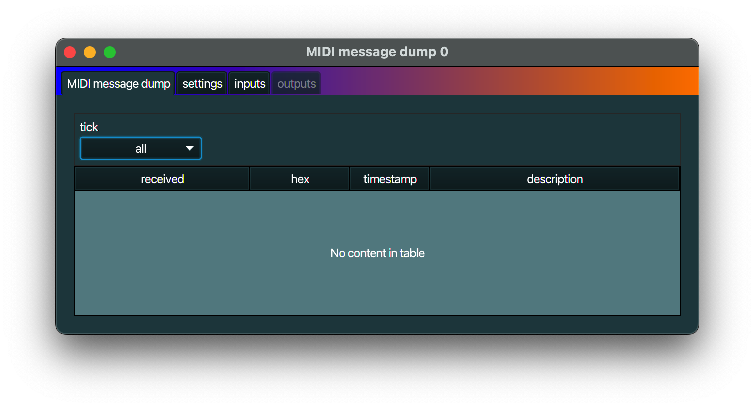
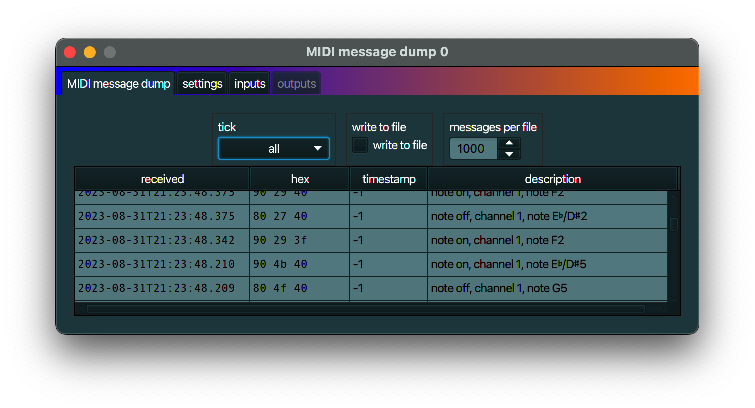
csv output for MIDI message dump Arpeggiator note off fix BooleanUpdater init fix

diff --git a/src/main/java/nl/nlcode/m/engine/MidiMessageDump.java b/src/main/java/nl/nlcode/m/engine/MidiMessageDump.java
@@ -1,20 +1,38 @@
 package nl.nlcode.m.engine;
 
+import java.io.File;
+import java.io.FileWriter;
+import java.io.IOException;
+import java.io.PrintWriter;
+import java.lang.invoke.MethodHandles;
+import java.nio.charset.Charset;
+import java.nio.file.Path;
+import java.text.DecimalFormat;
 import java.time.LocalDateTime;
+import java.time.format.DateTimeFormatter;
 import java.util.ArrayList;
 import java.util.Arrays;
 import java.util.Collections;
 import java.util.List;
 import javax.sound.midi.MidiMessage;
-import javax.sound.midi.ShortMessage;
+import nl.nlcode.m.linkui.BooleanUpdater;
+import nl.nlcode.m.linkui.IntUpdater;
 import nl.nlcode.m.linkui.ObjectUpdater;
 import nl.nlcode.marshalling.Marshalled;
+import org.apache.commons.csv.CSVFormat;
+import org.apache.commons.csv.CSVPrinter;
+import org.slf4j.Logger;
+import org.slf4j.LoggerFactory;
 
 /**
  *
  * @author leo
  */
 public class MidiMessageDump<U extends MidiMessageDump.Ui> extends MidiInOut<U> {
+
+    private static final Logger LOGGER = LoggerFactory.getLogger(MethodHandles.lookup().lookupClass());
+
+    private static final String FILE_EXTENTION = ".csv";
 
     public static record EnhancedMessage(
             byte[] rawSource,
@@ -31,22 +49,44 @@ public class MidiMessageDump<U extends MidiMessageDump.Ui> extends MidiInOut<U> 
 
     }
 
-    private transient int tickCount = 0;
+    private static String[] CSV_HEADERS = {
+        "dateTime",
+        "timestamp",
+        "bytesHex",
+        "bytesDec",
+        "description"
+    };
 
-    private List<EnhancedMessage> enhancedMessageList = Collections.synchronizedList(new ArrayList<>());
+    private static CSVFormat CSV_FORMAT = CSVFormat.DEFAULT.builder()
+            .setHeader(CSV_HEADERS)
+            .build();
+
+    private final List<EnhancedMessage> enhancedMessageList = Collections.synchronizedList(new ArrayList<>());
 
     private final ObjectUpdater<ShowTicks, U, MidiMessageDump<U>> showTicks;
+
+    private final BooleanUpdater<U, MidiMessageDump<U>> writeToFile;
+
+    private final IntUpdater<U, MidiMessageDump<U>> maxMessagesInFile;
+
+    private transient int tickCount = 0;
+
+    private transient int messagesInCurrentFile;
 
     public static record SaveData0(
             int id,
             ShowTicks showTicks,
             EnhancedMessage[] enhancedMessageList,
+            boolean writeToFile,
+            int maxMessagesInFile,
             Marshalled<MidiInOut> s) implements Marshalled<MidiMessageDump> {
 
         @Override
         public void unmarshalInto(Marshalled.Context context, MidiMessageDump target) {
             target.setShowTicks(showTicks());
             target.enhancedMessageList.addAll(Arrays.asList(enhancedMessageList()));
+            target.writeToFile.set(writeToFile());
+            target.maxMessagesInFile.set(maxMessagesInFile());
             s.unmarshalInto(context, target);
         }
 
@@ -57,18 +97,41 @@ public class MidiMessageDump<U extends MidiMessageDump.Ui> extends MidiInOut<U> 
 
     }
 
+    private transient LocalDateTime dumpStartTime;
+    private transient int fileCounter;
+    private transient CSVPrinter csvPrinter;
+
     @Override
     public Marshalled marshalInternal(int id, Context context) {
         return new MidiMessageDump.SaveData0(
                 id,
                 showTicks.get(),
                 enhancedMessageList.toArray(EnhancedMessage.EMPTY_ARRAY),
+                writeToFile.get(),
+                maxMessagesInFile.get(),
                 super.marshalInternal(-1, context)
         );
     }
 
     public MidiMessageDump() {
         showTicks = new ObjectUpdater(this, ShowTicks.ALL);
+        maxMessagesInFile = new IntUpdater<>(this, 1000, 1, Integer.MAX_VALUE);
+        writeToFile = new BooleanUpdater<>(this);
+        writeToFile.addListener((oldValue, newValue) -> {
+            stopWriting();
+        });
+    }
+
+    private synchronized void stopWriting() {
+        if (csvPrinter != null) {
+            try {
+                csvPrinter.close(true);
+            } catch (IOException e) {
+                LOGGER.error("could not close file <" + getDumpPath(fileCounter).toFile() + ">", e);
+            }
+            csvPrinter = null;
+            dumpStartTime = null;
+        }
     }
 
     @Override
@@ -107,7 +170,7 @@ public class MidiMessageDump<U extends MidiMessageDump.Ui> extends MidiInOut<U> 
         }
     }
 
-    private void addToList(MidiMessage source, long timeStamp) {
+    private synchronized void addToList(MidiMessage source, long timeStamp) {
         EnhancedMessage message = new EnhancedMessage(source.getMessage(), timeStamp, LocalDateTime.now(), MIDI_FORMAT.format(source));
         enhancedMessageList.add(0, message);
         uiUpdate(ui -> ui.received(message));
@@ -115,6 +178,55 @@ public class MidiMessageDump<U extends MidiMessageDump.Ui> extends MidiInOut<U> 
         while (enhancedMessageList.size() > MAX_SIZE) {
             enhancedMessageList.remove(enhancedMessageList.size() - 1);
         }
+        writeToFileIfNeeded(source, message);
+    }
+
+    private void writeToFileIfNeeded(MidiMessage source, EnhancedMessage enhancedMessage) {
+        if (writeToFile.get()) {
+            if (dumpStartTime == null) {
+                dumpStartTime = enhancedMessage.receivedAt();
+            }
+            try {
+                if (csvPrinter == null) {
+                    fileCounter = 0;
+                } else if (messagesInCurrentFile >= maxMessagesInFile.get()) {
+                    csvPrinter.close(true);
+                    csvPrinter = null;
+                    fileCounter++;
+                    if (fileCounter >= 10_000) {
+                        dumpStartTime = enhancedMessage.receivedAt();
+                        fileCounter = 0;
+                    }
+                }
+                if (csvPrinter == null) {
+                    messagesInCurrentFile = 0;
+                    File dumpFile = getDumpPath(fileCounter).toFile();
+                    PrintWriter writer = new PrintWriter(new FileWriter(dumpFile, Charset.forName("UTF-8")));
+                    csvPrinter = new CSVPrinter(writer, CSV_FORMAT);
+                }
+                csvPrinter.printRecord(
+                        enhancedMessage.receivedAt,
+                        enhancedMessage.timestamp,
+                        toHex(enhancedMessage.rawSource, 3),
+                        toDec(enhancedMessage.rawSource, 3),
+                        enhancedMessage.description
+                );
+                messagesInCurrentFile++;
+            } catch (IOException e) {
+                csvPrinter = null;
+                writeToFile.set(false);
+                File dumpFile = getDumpPath(fileCounter).toFile();
+                throw new FunctionalException("cannot write to <" + dumpFile + ">, output stopped", e);
+            }
+        }
+    }
+
+    private Path getDumpPath(int sequence) {
+        DateTimeFormatter dateFormat = DateTimeFormatter.ofPattern("yyyyMMdd'T'HHmmss");
+        DecimalFormat sequenceFormat = new DecimalFormat("0000");
+
+        String extName = "_" + getName() + "_" + dateFormat.format(dumpStartTime) + "_" + sequenceFormat.format(sequence) + FILE_EXTENTION;
+        return getProject().getProjectExtPath(extName);
     }
 
     public List<EnhancedMessage> getEnhancedMessageList() {
@@ -133,6 +245,20 @@ public class MidiMessageDump<U extends MidiMessageDump.Ui> extends MidiInOut<U> 
     public void setShowTicks(ShowTicks showTicks) {
         tickCount = 0;
         this.showTicks.set(showTicks);
+    }
+
+    public IntUpdater<U, MidiMessageDump<U>> maxMessagesInFileUpdater() {
+        return maxMessagesInFile;
+    }
+
+    public BooleanUpdater<U, MidiMessageDump<U>> writeToFileUpdater() {
+        return writeToFile;
+    }
+
+    @Override
+    public void close() {
+        stopWriting();
+        super.close();
     }
 
 }

diff --git a/src/main/java/nl/nlcode/m/ui/MidiMessageDumpUi.java b/src/main/java/nl/nlcode/m/ui/MidiMessageDumpUi.java
@@ -7,9 +7,12 @@ import javafx.beans.property.SimpleLongProperty;
 import javafx.beans.property.SimpleStringProperty;
 import javafx.beans.property.StringProperty;
 import javafx.fxml.FXML;
+import javafx.scene.control.CheckBox;
 import javafx.scene.control.MenuItem;
+import javafx.scene.control.Spinner;
 import javafx.scene.control.TableColumn;
 import javafx.scene.control.TableView;
+import javafx.scene.control.TextField;
 import javafx.util.Callback;
 import nl.nlcode.javafxutil.FxmlController;
 import nl.nlcode.m.engine.MidiInOut;
@@ -17,6 +20,7 @@ import nl.nlcode.m.engine.MidiMessageDump;
 import nl.nlcode.m.engine.MidiMessageDump.EnhancedMessage;
 import nl.nlcode.m.engine.MidiMessageFormat;
 import nl.nlcode.m.engine.ShowTicks;
+import nl.nlcode.m.engine.TickSource;
 import org.slf4j.Logger;
 import org.slf4j.LoggerFactory;
 
@@ -47,6 +51,15 @@ public class MidiMessageDumpUi extends MidiInOutUi<MidiMessageDump> implements M
 
     @FXML
     private EnumChoiceBox<ShowTicks> showTicks;
+    
+    @FXML
+    private Spinner<Integer> maxMessagesInFile;
+    private final IntPropertyUpdaterBridge maxMessagesInFileBackend;
+    
+    @FXML
+    private CheckBox writeToFile;
+    private final BooleanPropertyUpdaterBridge writeToFileBackend;
+            
 
     public MidiMessageDumpUi(ProjectUi projectUi, MidiMessageDump midiMessageDump, MenuItem menuItem) {
         super(projectUi, midiMessageDump, menuItem);
@@ -84,6 +97,9 @@ public class MidiMessageDumpUi extends MidiInOutUi<MidiMessageDump> implements M
             getMidiInOut().setShowTicks(newValue);
         });
         showTicks.setValue(getMidiInOut().getShowTicks());
+        
+        maxMessagesInFileBackend = IntPropertyUpdaterBridge.create(getMidiInOut().maxMessagesInFileUpdater(), maxMessagesInFile.getValueFactory().valueProperty());
+        writeToFileBackend = BooleanPropertyUpdaterBridge.create(getMidiInOut().writeToFileUpdater(), writeToFile.selectedProperty());
     }
 
     @Override

diff --git a/src/main/java/nl/nlcode/m/engine/Project.java b/src/main/java/nl/nlcode/m/engine/Project.java
@@ -118,6 +118,18 @@ public final class Project implements Serializable, Marshallable {
         return path;
     }
 
+    public Path getProjectExtPath(String name) {
+         Path parent = getPath().getParent();
+         String projectName = getPath().getName(getPath().getNameCount() - 1).toString();
+         String baseName;
+         if (projectName.endsWith(Control.FILE_EXTENTION)) {
+             baseName = projectName.substring(0, projectName.length() - Control.FILE_EXTENTION.length());
+         } else {
+             baseName = projectName;
+         }
+         return Path.of(parent.toString(), baseName + name);
+    }
+    
     public Control getControl() {
         return control;
     }

diff --git a/src/test/java/nl/nlcode/m/engine/ArpeggiatorTest.java b/src/test/java/nl/nlcode/m/engine/ArpeggiatorTest.java
@@ -1,16 +1,6 @@
 package nl.nlcode.m.engine;
 
-import ch.qos.logback.classic.util.ClassicEnvUtil;
 import java.util.List;
-import javax.sound.midi.MidiMessage;
-import nl.nlcode.m.linkui.IntUpdater;
-import nl.nlcode.m.linkui.ObjectUpdater;
-import nl.nlcode.marshalling.Marshallable;
-import nl.nlcode.marshalling.Marshalled;
-import org.junit.jupiter.api.AfterEach;
-import org.junit.jupiter.api.AfterAll;
-import org.junit.jupiter.api.BeforeEach;
-import org.junit.jupiter.api.BeforeAll;
 import org.junit.jupiter.api.Test;
 import static org.junit.jupiter.api.Assertions.*;
 import org.junit.jupiter.api.Nested;

diff --git a/src/main/java/nl/nlcode/m/linkui/BooleanUpdater.java b/src/main/java/nl/nlcode/m/linkui/BooleanUpdater.java
@@ -8,15 +8,16 @@ import java.util.concurrent.atomic.AtomicBoolean;
  */
 public class BooleanUpdater<U, H extends Updater.Holder<U>> extends Updater<Boolean, U, H> {
 
-    private AtomicBoolean ref = new AtomicBoolean();
+    private AtomicBoolean ref;
 
     public BooleanUpdater(H holder) {
-        super(holder);
+        ref = new AtomicBoolean();
+        register(holder);
     }
     
     public BooleanUpdater(H holder, boolean v) {
+        this(holder);
         ref.set(v);
-        register(holder);
     }
 
     public boolean get() {

diff --git a/src/main/java/nl/nlcode/m/engine/Arpeggiator.java b/src/main/java/nl/nlcode/m/engine/Arpeggiator.java
@@ -254,7 +254,7 @@ public class Arpeggiator<U extends Arpeggiator.Ui> extends TimeSensitiveMidiInOu
         previousAction++;
         while ((playingNote == -1 || previousAction >= noteLength) && !chordNotes.isEmpty()) {
             previousAction = 0;
-            if (playingNote == -1) {
+            if (playingNote != -1) {
                 int midiNote = playingNote + 12 * currentOctave;
                 if (validNote(midiNote)) {
                     send(createShortMessage(ShortMessage.NOTE_OFF, channel.get(), midiNote, velocity));

diff --git a/src/main/java/nl/nlcode/m/engine/Lookup.java b/src/main/java/nl/nlcode/m/engine/Lookup.java
@@ -94,8 +94,8 @@ public class Lookup<T extends Lookup.Named> implements Iterable<T> {
         if (name.isBlank()) {
             throw new FunctionalException("name must contain at least one non-whitespace character");
         }
-        if (name.length() > 255) {
-            throw new FunctionalException("name size cannot exceed 255 characters");
+        if (name.length() > 64) {
+            throw new FunctionalException("name size cannot exceed 64 characters");
         }
     }
 

diff --git a/src/main/java/nl/nlcode/m/ui/App.java b/src/main/java/nl/nlcode/m/ui/App.java
@@ -152,8 +152,10 @@ public class App extends Application {
             Toolkit.getDefaultToolkit().beep();
             LOGGER.info("probably user error", e);
         } else if (!Platform.isFxApplicationThread()) {
+            showErrorDialog(e);
             LOGGER.info("error in background", e);
         } else {
+            showErrorDialog(e);
             e.printStackTrace(System.out);
             LOGGER.warn("An unexpected error occurred in {}", t);
         }

diff --git a/src/main/java/nl/nlcode/m/engine/Control.java b/src/main/java/nl/nlcode/m/engine/Control.java
@@ -20,7 +20,7 @@ public final class Control {
 
     private static final Logger LOGGER = LoggerFactory.getLogger(MethodHandles.lookup().lookupClass());
 
-    private static final String FILE_EXTENTION = ".m";
+    public static final String FILE_EXTENTION = ".m";
 
     public static final String FILE_EXTENTION_FILTER = "*.m";
 

diff --git a/www/m.nlcode.nl/content/MidiInOut_parts/MIDI_message_dump/_index.md b/www/m.nlcode.nl/content/MidiInOut_parts/MIDI_message_dump/_index.md
@@ -5,6 +5,8 @@ title = "MIDI message dump"
 
 ## description
 A *MIDI message dump* is a MidiInOut part that displays all (or most) of all incoming MIDI messages.
+When you set the *write to file* option, all new incoming messages will be written to file. The
+file(s) can be found in the same directoy as the project file.
 Note that this MidiInOut part has no output, only input.
 ![MIDI message dump](midi_message_dump.png)
 
